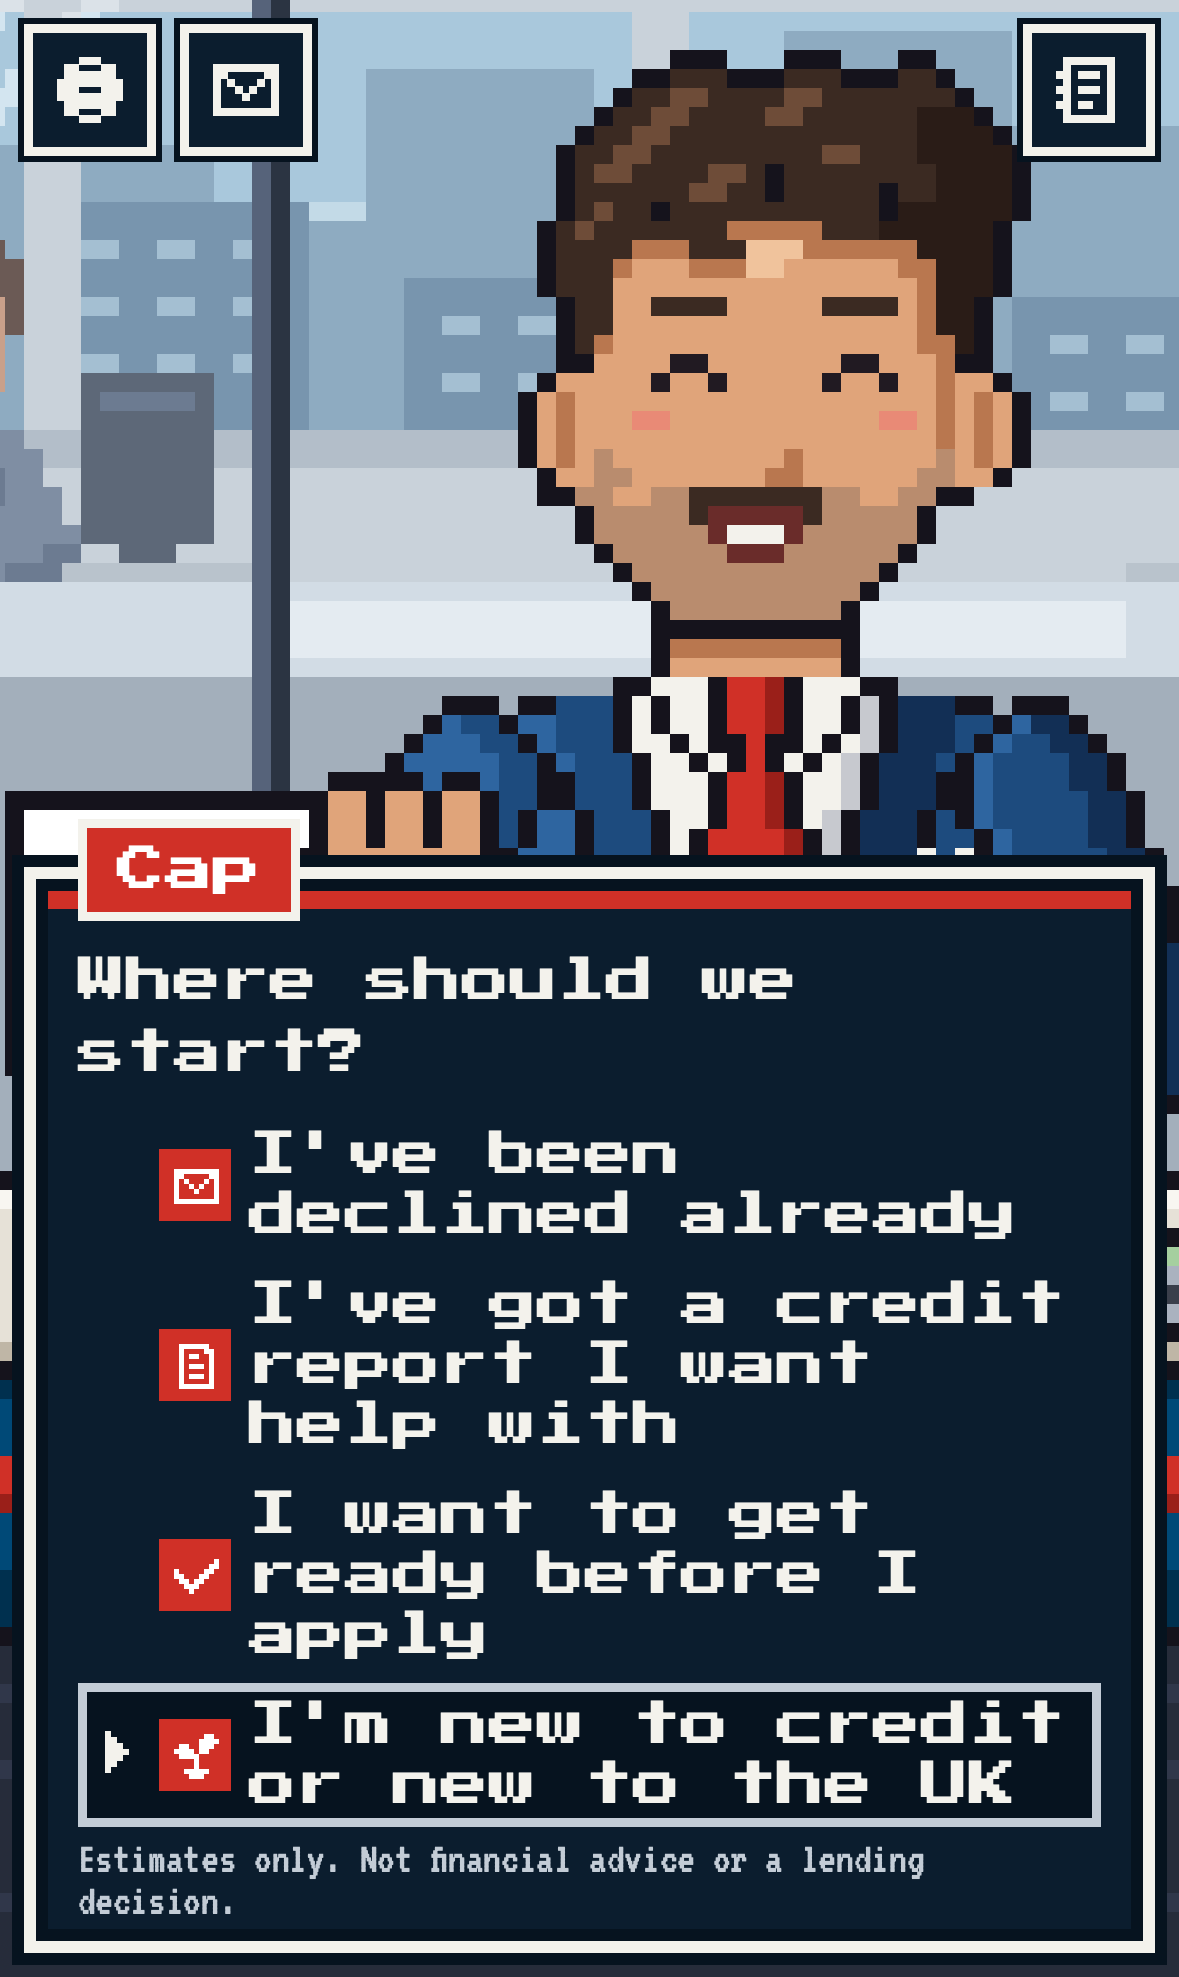
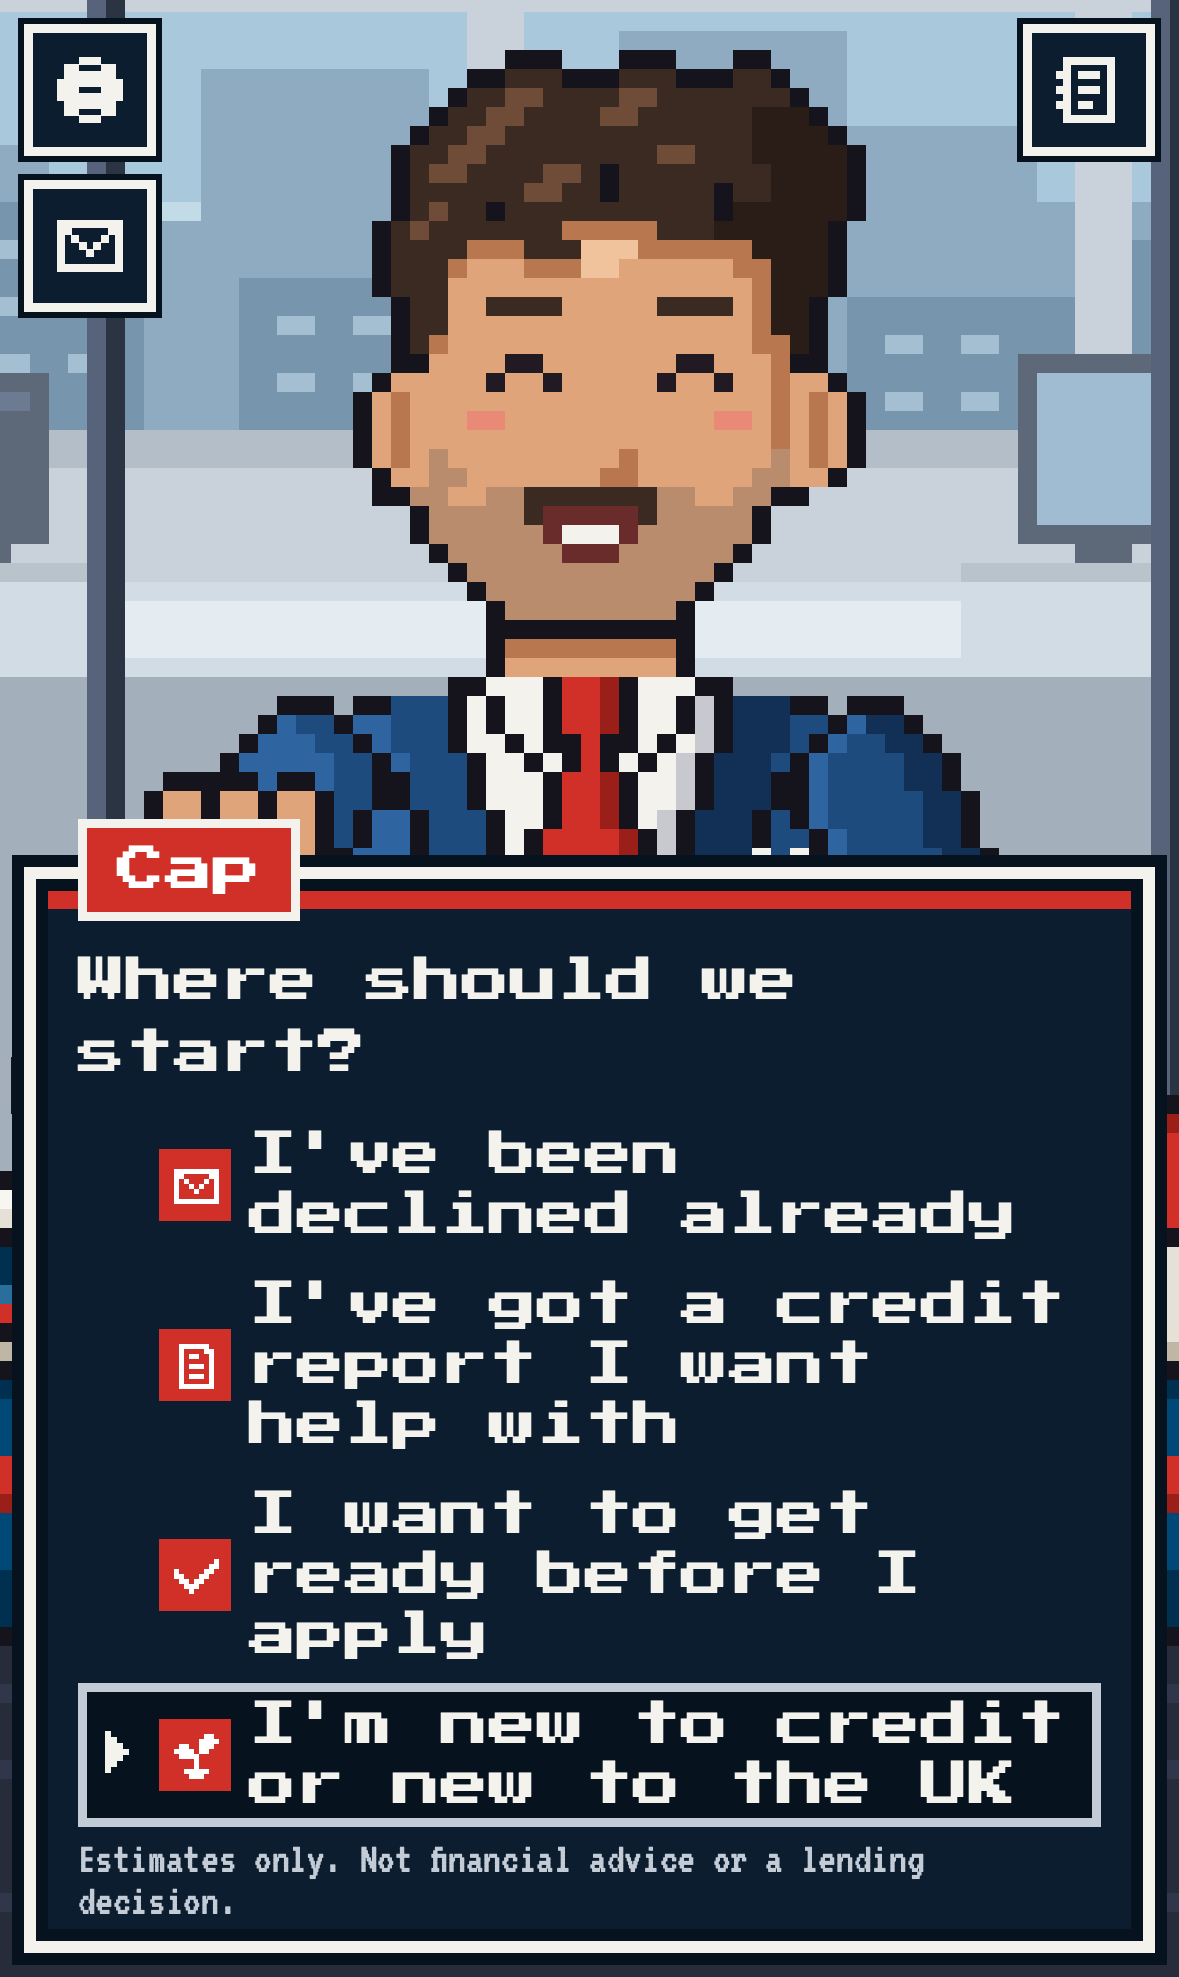
Devpost screenshots retaken on the current build (no phone monitor, Capital One badge, real-card business card); README updated

Changed region(s): [[0.0, 0.0, 1.0, 0.6788], [0.0, 0.6171, 0.0305, 0.6788]]

diff --git a/deliverables/devpost/screens/README.md b/deliverables/devpost/screens/README.md
@@ -3,14 +3,16 @@
 **How they were made:**
 - WebKit with the iPhone 15 profile: 393x659 CSS px at 3x, so each file is 1179x1977.
 - Demo mode on, Plain English on, Camera B.
-- The stack was offline (`DEMO_OFFLINE=true`: Claude's cached words, the same as live).
-- Priya, declined branch, taken 2026-11-08. No console errors.
+- Priya, declined branch.
+- Retaken on 2026-11-08 at about 01:38 on the current build (`426eaca`): no desk monitor on the phone, Cap centred, the Capital One badge on his chest, and the business card as a real 85.6 x 54 card.
+- Run on the live stack (`pnpm dev`, real backend). Every line of this path is in the AI cache, so the words are Claude's and match an offline run.
+- No console errors.
 
 | File | What it shows |
 |---|---|
-| `01-business-card.png` | Cap's business card: the Capital One logo, his portrait, "Cap, Credit Coach, Here to make your credit make sense" |
+| `01-business-card.png` | Cap's business card, landscape: the Capital One logo, his portrait, "Cap", "Credit Coach", "Here to make your credit make sense" |
 | `02-opening-chips.png` | "Where should we start?" with the four opening choices |
-| `03-decline-card.png` | "About your Capital One letter." with the **Why they said no** window: Capital One, most likely high credit utilisation |
+| `03-decline-card.png` | "About your Capital One letter." with the **Why they said no** window: Capital One, most likely high credit utilisation. The Capital One badge on his chest |
 | `04-reason-window.png` | "You're using 79% of your £1,200 total limit (£950)." with the **Reason 1** window: Credit utilisation, Problem, health bar, Why? |
 | `05-paper.png` | The one-page summary he hands over ("Your credit, on one sheet") |
 | `06-plan-steps.png` | Step 1 of 12 of the 3-month plan, dated Mon 9 Nov |
